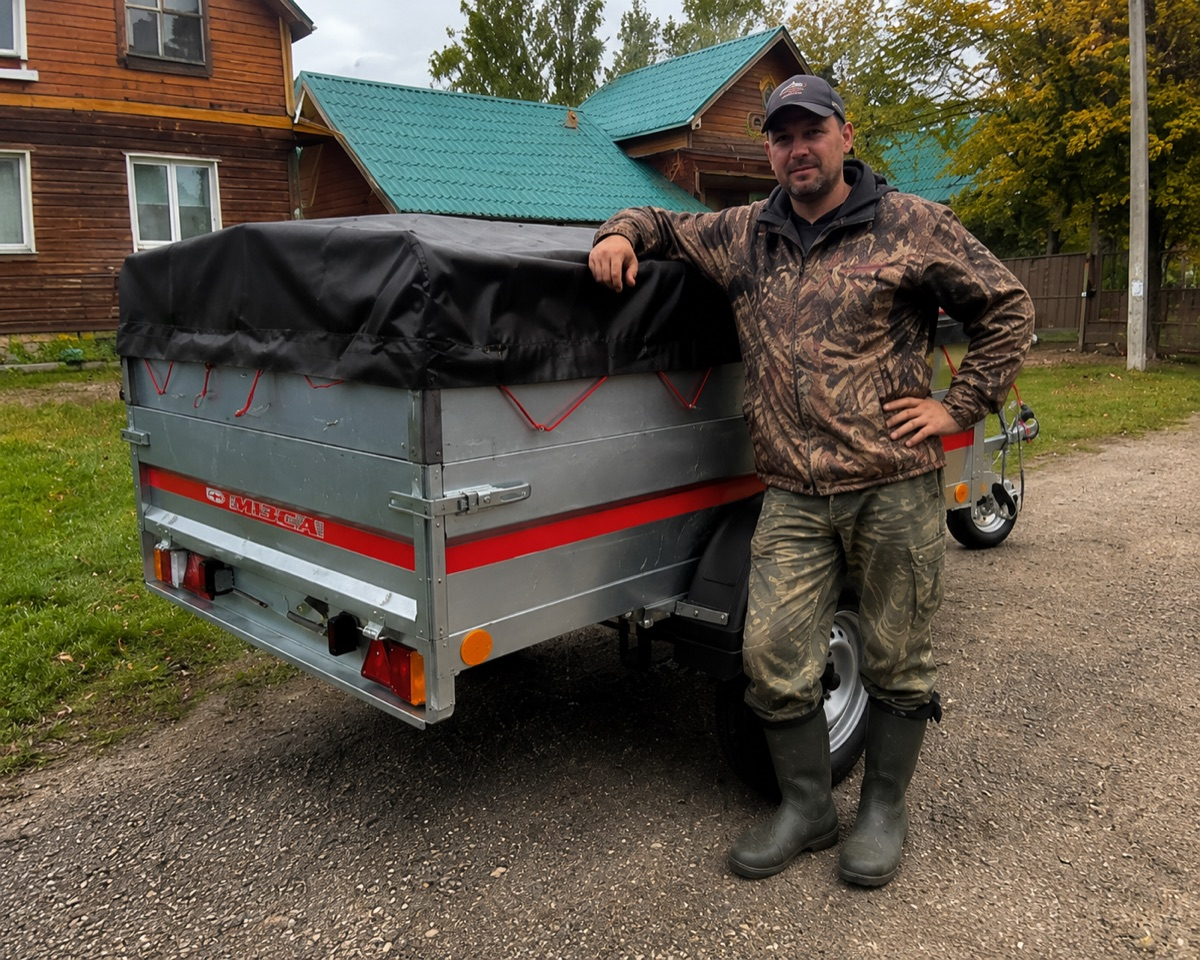
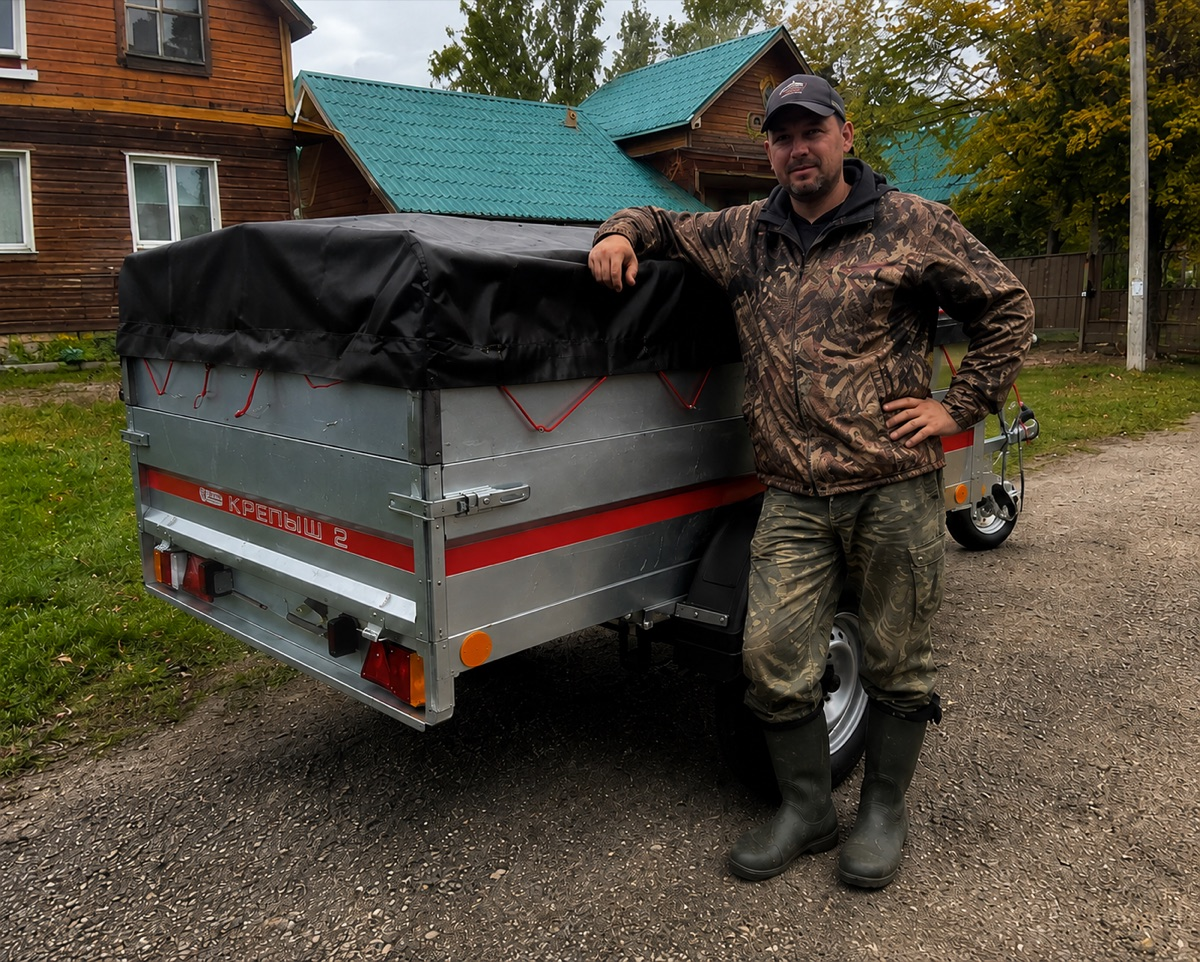
Отзыв 2: новое фото (Крепыш) ужато в JPEG + подпись обновлена под Крепыш

diff --git a/index.html b/index.html
@@ -698,7 +698,7 @@ _tmr.push({id: "3785703", type: "pageView", start: (new Date()).getTime()});
       <div class="review">
         <div class="review-photo">
           <img src="reviews/2.jpg" alt="Отзыв покупателя" loading="lazy" onerror="if(!this.dataset.r){this.dataset.r=1;this.src='images/14.jpg'}else{this.remove()}">
-          <span class="rev-tag">Покупка: МЗСА, с тентом</span>
+          <span class="rev-tag">Покупка: Крепыш, с тентом</span>
         </div>
         <div class="review-body">
           <div class="stars">★★★★★</div>
